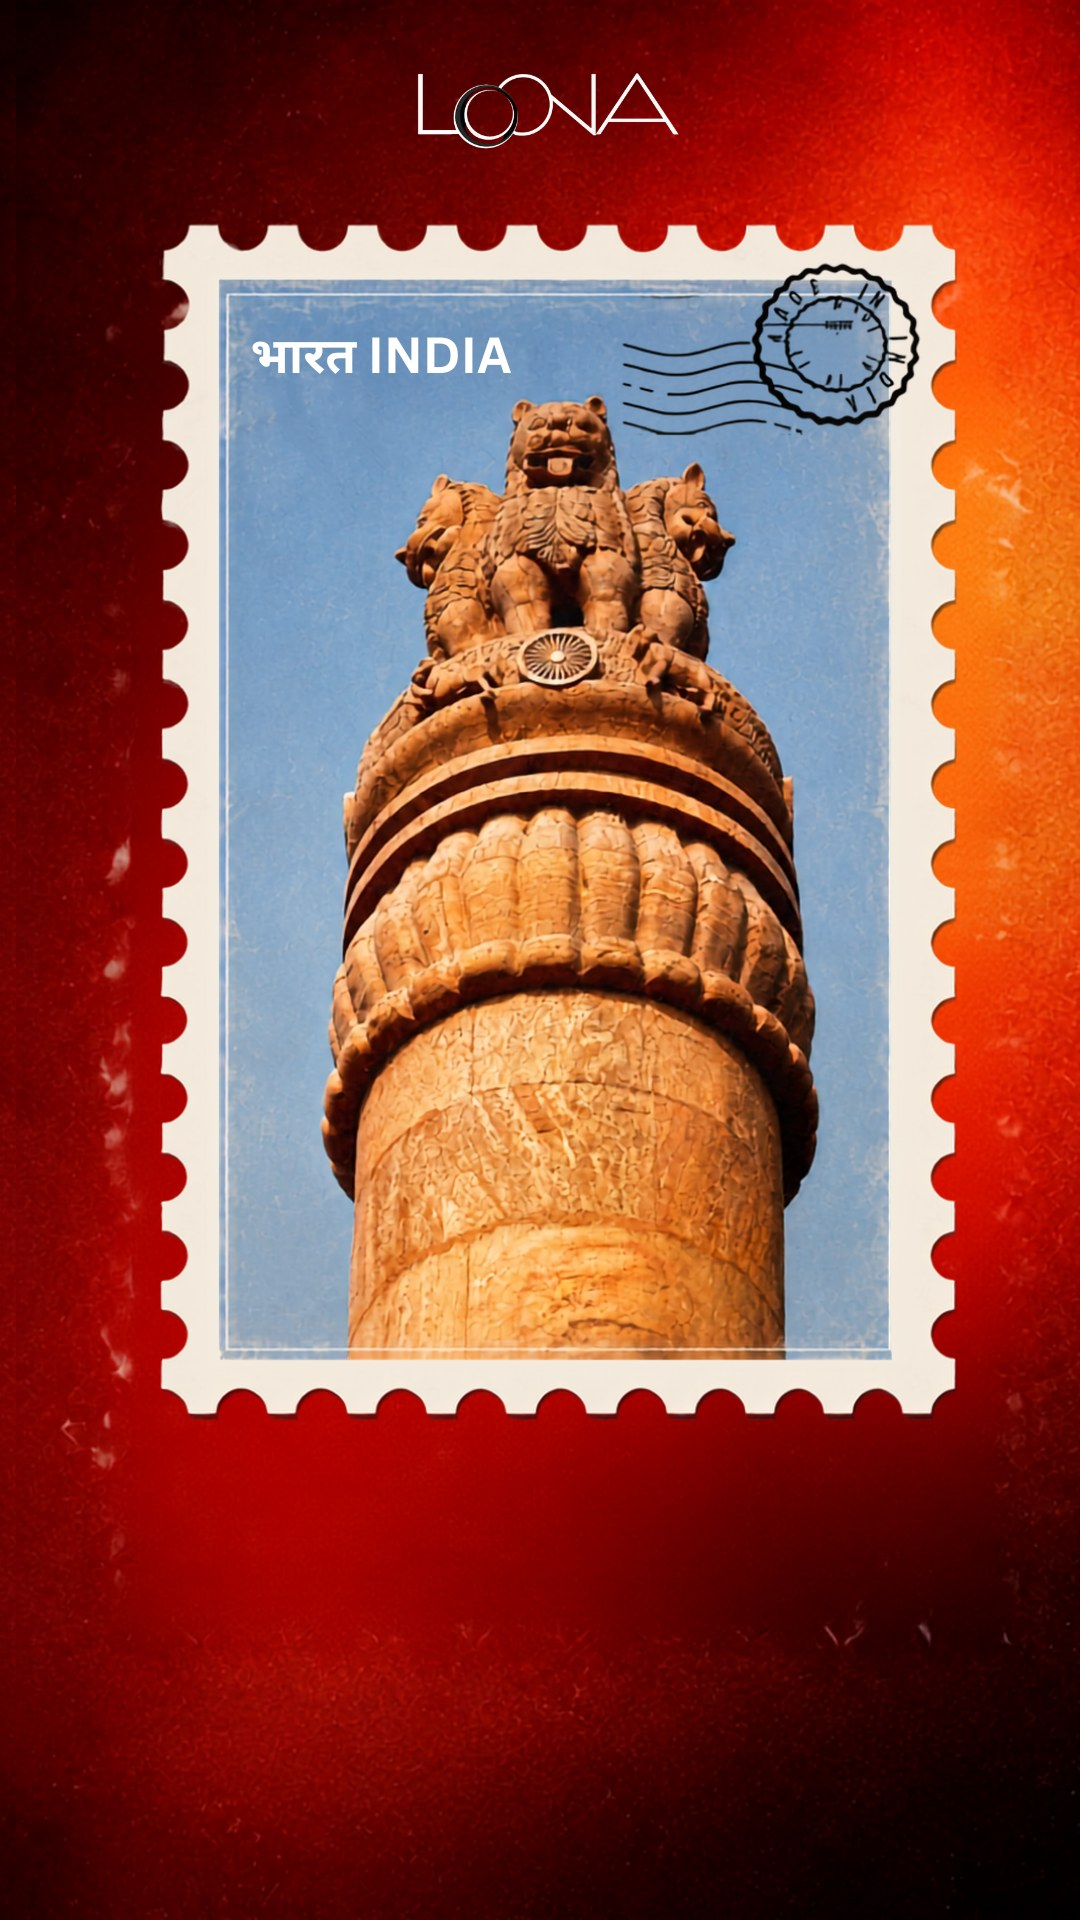
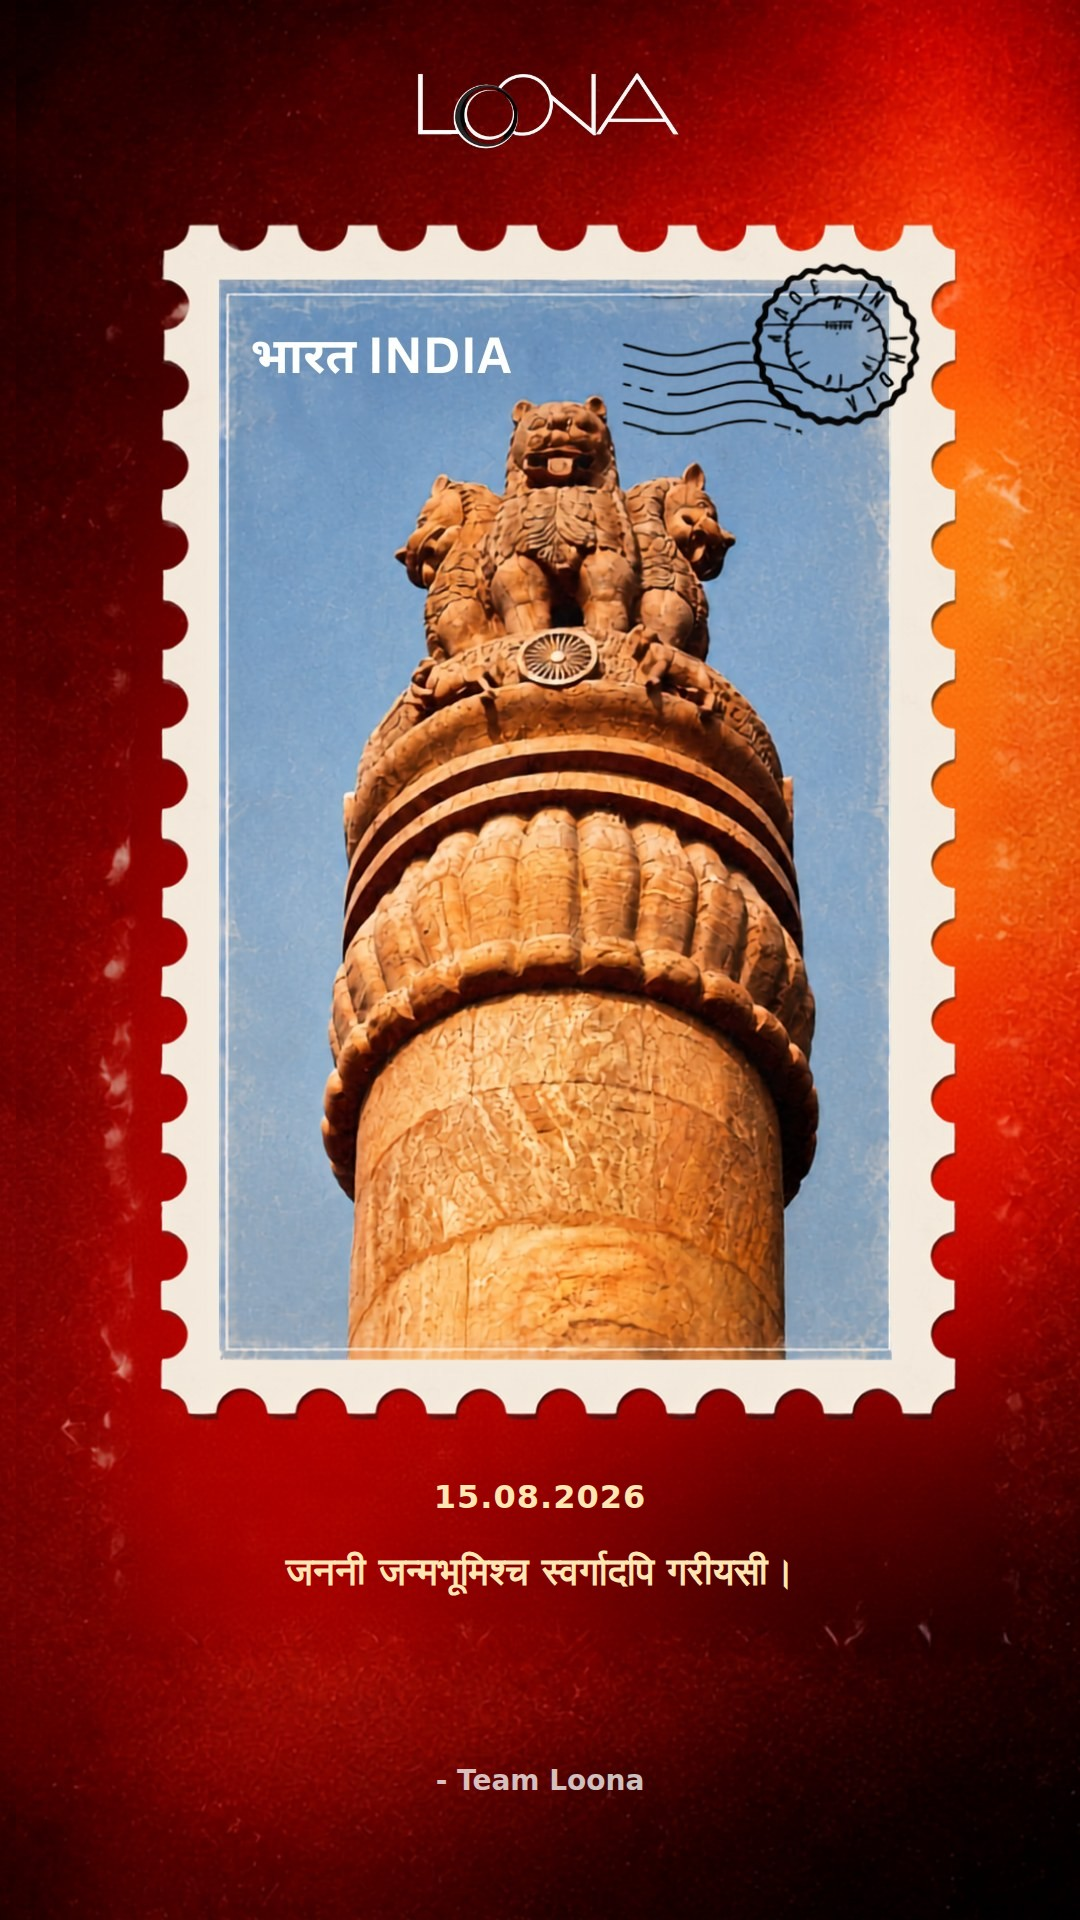
independence: fix viewport cutoff, unreachable close button, stamp text; remove share
- .ind-scene and .mic-modal-backdrop: replaced inset:0 with explicit
  top/left/right + height:100svh (100vh fallback). Plain inset:0 on a
  position:fixed element sizes against Safari's large viewport (as if
  the toolbar were always hidden), so bottom-anchored content could
  render below the actually-visible area whenever the toolbar was
  docked/expanded — confirmed on a real device where the hoist button,
  subtitle, and count line were all cut off below the visible viewport.
- Stamp modal's close button: was nested inside .mic-modal-card, whose
  entrance animation keeps an active `transform` on it even after
  settling (scale(1) translateY(0) still counts) — which makes it a
  containing block for position:fixed descendants, silently anchoring
  the close button to the card instead of the viewport. Moved it to be
  a direct sibling of the card instead, now truly pinned to the
  viewport corner, reachable regardless of the card's own height.
- Stamp image: date/shloka/signature are now baked directly into
  stamp-bg.jpg (rendered through an actual browser via
  bake-stamp-static-text.js in scratchpad, so Devanagari shapes/centers
  correctly) instead of drawn with canvas fillText() at runtime — a
  real device showed the shloka line badly mis-centered, canvas text
  metrics don't account for Devanagari conjunct/ligature shaping the
  way DOM text layout does. Only the personalized "Thank you <name>..."
[…]

Changed region(s): [[0.275, 0.75, 0.7333, 0.8438], [0.4278, 0.9062, 0.6111, 0.9375], [0.4583, 0.75, 0.4889, 0.7812]]

diff --git a/independence/index.html b/independence/index.html
@@ -46,7 +46,17 @@
      it's simplified to position:fixed;inset:0 instead of the full-bleed
      vw-math the dashboard version needs to escape its padded parent). ══════════ */
   .ind-scene {
-    position: fixed; inset: 0; overflow: hidden;
+    /* top/left/right + explicit height, not inset:0 — plain inset:0 on a
+       position:fixed element sizes against the LARGE viewport in Safari
+       (as if the toolbar were always hidden), so bottom-anchored content
+       inside it (.mic-controls, see below) could end up positioned below
+       the actually-visible area whenever the toolbar is docked/expanded,
+       cut off entirely — confirmed on a real device. 100svh ("small"
+       viewport height) is the one guaranteed to never be taller than
+       what's actually visible, toolbar or not; 100vh first as a fallback
+       for browsers that don't understand svh (unsupported values are
+       ignored, not applied, so this degrades safely). */
+    position: fixed; top: 0; left: 0; right: 0; height: 100vh; height: 100svh; overflow: hidden;
     background:
       radial-gradient(34% 22% at 6% 56%, rgba(255, 242, 216, .5) 0%, rgba(255, 150, 66, .26) 34%, transparent 60%),
       linear-gradient(178deg, #ff6d29 0%, #fb5713 16%, #db3d09 30%, #8f2605 46%, #3e0f02 64%, #150602 82%, #070301 100%);
@@ -189,7 +199,7 @@
   .mic-controls {
     position: absolute; left: 0; right: 0; bottom: 0; z-index: 6;
     display: flex; flex-direction: column; align-items: center; gap: 8px;
-    padding: 28px 20px calc(38px + env(safe-area-inset-bottom, 0px));
+    padding: 18px 20px calc(38px + env(safe-area-inset-bottom, 0px));
     text-align: center;
     background: linear-gradient(180deg, transparent 0%, rgba(7, 3, 1, .55) 40%, rgba(7, 3, 1, .9) 100%);
   }
@@ -206,13 +216,21 @@
      .mic-modal-backdrop/.mic-modal-card), just swapped out rather than
      stacked on top of it (see stamp-btn's click handler), so there's only
      ever one dimmed backdrop up at a time. */
+  /* Pinned to the viewport corner (not the card) — as a flex child at the
+     top of a card whose own height could exceed the viewport (see the
+     overflow-y:auto safety net on .mic-modal-backdrop above), this button
+     could otherwise scroll off above the visible area entirely, exactly
+     like a real device caught happening. Fixed positioning means it's
+     always reachable regardless of how tall the card's content gets. */
   .mic-stamp-close {
-    align-self: flex-end; margin: -8px -8px 0 0; width: 30px; height: 30px;
-    border-radius: 50%; background: rgba(255, 255, 255, .1); color: #fff;
-    border: 1px solid rgba(255, 255, 255, .2); font-size: 16px; line-height: 1;
+    position: fixed; z-index: 31;
+    top: calc(14px + env(safe-area-inset-top, 0px)); right: calc(14px + env(safe-area-inset-right, 0px));
+    width: 34px; height: 34px;
+    border-radius: 50%; background: rgba(20, 10, 5, .75); color: #fff;
+    border: 1px solid rgba(255, 255, 255, .25); font-size: 16px; line-height: 1;
     display: flex; align-items: center; justify-content: center; cursor: pointer;
   }
-  .mic-stamp-img { width: 100%; max-height: 58vh; object-fit: contain; border-radius: 12px; }
+  .mic-stamp-img { width: 100%; max-height: 52vh; object-fit: contain; border-radius: 12px; }
   .mic-name-row { display: flex; gap: 6px; align-items: center; margin-top: 4px; }
   .mic-name-row input {
     background: rgba(255, 255, 255, .1); border: 1px solid rgba(255, 255, 255, .25); border-radius: 999px;
@@ -226,10 +244,13 @@
      itself appears (see the setTimeout in startClimb()), not immediately
      and not inline in the bottom panel. */
   .mic-modal-backdrop {
-    position: fixed; inset: 0; z-index: 30;
+    /* Same top/left/right + explicit height fix as .ind-scene above —
+       plain inset:0 could size this against Safari's large viewport. */
+    position: fixed; top: 0; left: 0; right: 0; height: 100vh; height: 100svh; z-index: 30;
     background: rgba(5, 2, 1, .6);
     display: flex; align-items: center; justify-content: center;
     padding: 20px calc(20px + env(safe-area-inset-right, 0px)) calc(20px + env(safe-area-inset-bottom, 0px)) calc(20px + env(safe-area-inset-left, 0px));
+    overflow-y: auto; /* safety net if a card is ever taller than even the small viewport */
     animation: mic-backdrop-in .25s ease both;
   }
   @keyframes mic-backdrop-in { from { opacity: 0; } to { opacity: 1; } }
@@ -466,11 +487,9 @@
         <input id="name-input" type="text" maxlength="24" placeholder="Your name (optional)" autocomplete="off">
       </div>
       <div class="mic-share-actions">
-        <button class="btn btn-primary" id="share-btn">Share your hoist</button>
         <button class="btn btn-primary" id="stamp-btn">Get your stamp</button>
         <button class="btn btn-secondary" id="again-btn">Hoist again</button>
       </div>
-      <div class="mic-share-status" id="share-status"></div>
     </div>
   </div>
 
@@ -480,15 +499,23 @@
        compositing today's date/shloka/the name typed into name-input onto
        assets/independence-day/stamp-bg.jpg (see buildStampImage()). -->
   <div class="mic-modal-backdrop" id="stamp-modal" style="display:none">
+    <!-- Deliberately NOT inside .mic-modal-card: that card gets an active
+         `transform` from its own entrance animation (mic-card-in), and
+         ANY transform — even one that settles on scale(1)/translateY(0) —
+         makes an element a containing block for position:fixed
+         descendants, which would silently break this button's fixed
+         positioning (it'd anchor to the card, not the real viewport) and
+         reintroduce the exact "can't reach the close button" bug this is
+         fixing. Kept as a sibling instead, inside the backdrop (which
+         only ever animates opacity — safe). -->
+    <button class="mic-stamp-close" id="stamp-close-btn" aria-label="Back">✕</button>
     <div class="mic-modal-card">
-      <button class="mic-stamp-close" id="stamp-close-btn" aria-label="Back">✕</button>
       <img class="mic-stamp-img" id="stamp-img" alt="Your personalized Independence Day stamp">
       <button class="btn btn-primary" id="save-stamp-btn">Save</button>
       <div class="mic-share-status" id="stamp-status"></div>
     </div>
   </div>
 
-  <canvas id="story-canvas" width="1080" height="1920" style="display:none" aria-hidden="true"></canvas>
   <canvas id="stamp-canvas" width="1080" height="1920" style="display:none" aria-hidden="true"></canvas>
 
 <script>
@@ -692,16 +719,6 @@ if (referrerSlug) {
   el.style.display = '';
   el.textContent = unslug(referrerSlug) + ' hoisted the flag 🇮🇳 Now it\'s your turn.';
 }
-
-function slugify(s) {
-  return s.toLowerCase().trim().replace(/[^a-z0-9]+/g, '-').replace(/^-+|-+$/g, '').slice(0, 24);
-}
-function randomSlug() {
-  const adjectives = ['bold', 'swift', 'proud', 'free', 'brave', 'bright', 'united', 'fearless'];
-  const a = adjectives[Math.floor(Math.random() * adjectives.length)];
-  return a + '-loonatic-' + Math.floor(1000 + Math.random() * 9000);
-}
-let mySlug = randomSlug();
 
 const HOIST_ENDPOINT = '/.netlify/functions/independence-hoist';
 
@@ -973,7 +990,6 @@ function startClimb() {
       document.getElementById('phase-landing').style.display = 'none';
       document.getElementById('phase-celebrate').style.display = '';
       hoistPromise.then((d) => renderMap(d || lastHoistResult));
-      prepareStoryAssets();
       // Map shows clean first, no buttons — the share/hoist-again popup
       // appears 6s later rather than being there immediately.
       setTimeout(() => {
@@ -1009,111 +1025,11 @@ document.getElementById('again-btn').addEventListener('click', () => {
   setTimeout(() => { hoistBtn.disabled = false; startClimb(); }, dropDuration * 1000 + 60);
 });
 
-// ── Name -> personalized referral link, and the shareable Story image ──
 const nameInput = document.getElementById('name-input');
-nameInput.addEventListener('input', () => {
-  mySlug = slugify(nameInput.value) || randomSlug();
-  prepareStoryAssets();
-});
-
-function shareUrl() {
-  return location.origin + '/independence/?from=' + encodeURIComponent(mySlug);
-}
-
-let latestStoryBlob = null;
-function prepareStoryAssets() {
-  buildStoryImage(shareUrl(), blob => { latestStoryBlob = blob; });
-}
-
-// Draws a 1080x1920 (Story-ratio) branded card: "I HOISTED THE FLAG 🇮🇳 /
-// Your turn. / <url>" plus a QR code, instead of sharing a generic "Happy
-// Independence Day" image — the whole point (per the brief) is that what
-// gets shared is itself an invitation with the link baked in, not just a
-// nice graphic, so the chain can actually continue when someone sees it.
-function buildStoryImage(url, callback) {
-  const canvas = document.getElementById('story-canvas');
-  const ctx = canvas.getContext('2d');
-  const W = canvas.width, H = canvas.height;
-
-  const grad = ctx.createLinearGradient(0, 0, 0, H);
-  grad.addColorStop(0, '#ff7a30');
-  grad.addColorStop(.32, '#fb5713');
-  grad.addColorStop(.6, '#8f2605');
-  grad.addColorStop(1, '#150602');
-  ctx.fillStyle = grad;
-  ctx.fillRect(0, 0, W, H);
-
-  const stripeY = 150, stripeH = 22;
-  ctx.fillStyle = '#FF9933'; ctx.fillRect(0, stripeY, W, stripeH);
-  ctx.fillStyle = '#FFFFFF'; ctx.fillRect(0, stripeY + stripeH, W, stripeH);
-  ctx.fillStyle = '#138808'; ctx.fillRect(0, stripeY + stripeH * 2, W, stripeH);
-
-  ctx.textAlign = 'center';
-  ctx.fillStyle = '#fff';
-  ctx.font = '800 92px system-ui, -apple-system, sans-serif';
-  ctx.fillText('I HOISTED', W / 2, 560);
-  ctx.fillText('THE FLAG 🇮🇳', W / 2, 668);
-
-  ctx.font = '600 48px system-ui, -apple-system, sans-serif';
-  ctx.fillStyle = 'rgba(255,255,255,.9)';
-  ctx.fillText('Your turn.', W / 2, 760);
-
-  ctx.font = '600 30px system-ui, -apple-system, sans-serif';
-  ctx.fillStyle = '#FFD54A';
-  ctx.fillText(url.replace(/^https?:\/\//, ''), W / 2, 1770);
-
-  const finish = () => canvas.toBlob(blob => callback(blob), 'image/png');
-
-  const qr = new Image();
-  qr.crossOrigin = 'anonymous';
-  qr.onload = () => {
-    const qs = 280;
-    const qx = W / 2 - qs / 2, qy = 1400;
-    ctx.fillStyle = '#fff';
-    ctx.fillRect(qx - 18, qy - 18, qs + 36, qs + 36);
-    ctx.drawImage(qr, qx, qy, qs, qs);
-    finish();
-  };
-  qr.onerror = finish; // still produce a shareable image even if the QR API is unreachable
-  qr.src = 'https://api.qrserver.com/v1/create-qr-code/?size=280x280&data=' + encodeURIComponent(url);
-}
-
-document.getElementById('share-btn').addEventListener('click', async () => {
-  sendNameIfNeeded();
-  const status = document.getElementById('share-status');
-  const url = shareUrl();
-  const finish = async (blob) => {
-    let shared = false;
-    if (navigator.canShare && blob) {
-      try {
-        const file = new File([blob], 'loona-independence-hoist.png', { type: 'image/png' });
-        if (navigator.canShare({ files: [file] })) {
-          try { await navigator.clipboard.writeText(url); } catch (e) {}
-          await navigator.share({ files: [file], title: 'I hoisted the flag 🇮🇳', text: 'Your turn: ' + url });
-          shared = true;
-        }
-      } catch (e) { /* user cancelled the native share sheet, or share failed — fall through */ }
-    }
-    if (!shared) {
-      if (blob) {
-        const a = document.createElement('a');
-        a.href = URL.createObjectURL(blob);
-        a.download = 'loona-independence-hoist.png';
-        document.body.appendChild(a); a.click(); a.remove();
-      }
-      try { await navigator.clipboard.writeText(url); } catch (e) {}
-    }
-    status.textContent = 'Your Story is ready. Add a Link sticker and paste the link we copied for you.';
-  };
-  if (latestStoryBlob) finish(latestStoryBlob);
-  else buildStoryImage(url, finish);
-});
 
 // ── Personalized commemorative stamp ──
 // Composites today's date, the shloka, and a thank-you (using whatever
-// name is in name-input, same field the share flow already uses) onto
-// the plain stamp-bg.jpg artwork — same on-canvas approach as
-// buildStoryImage above, just a different background/layout.
+// name is in name-input) onto the plain stamp-bg.jpg artwork.
 const stampBg = new Image();
 let stampBgReady = false;
 stampBg.onload = () => { stampBgReady = true; };
@@ -1148,20 +1064,21 @@ function buildStampImage(name, callback) {
 
   const draw = () => {
     ctx.clearRect(0, 0, W, H);
+    // The date, shloka, and "- Team Loona" signature are now baked into
+    // stamp-bg.jpg itself (rendered through an actual browser so the
+    // Devanagari shapes/centers correctly) rather than drawn here — a
+    // real device caught canvas fillText() badly mis-centering that line
+    // specifically (iOS Safari's canvas text metrics don't account for
+    // Devanagari's conjunct/ligature shaping the way its own DOM text
+    // layout does, so ctx.measureText()-based centering was wrong even
+    // though the exact same string renders perfectly as plain HTML
+    // elsewhere on this page). Only the name — plain ASCII, no shaping
+    // risk — still needs to be dynamic, so that's all that's drawn here,
+    // into the gap already reserved for it between the baked shloka and
+    // signature (see bake-stamp-static-text.js in scratchpad for how
+    // stamp-bg.jpg was built, if it ever needs regenerating).
     ctx.drawImage(stampBg, 0, 0, W, H);
     ctx.textAlign = 'center';
-
-    // The artwork's own stamp graphic ends around y=1400 — everything
-    // below that is the plain background gradient, free for this text.
-    ctx.font = '700 32px system-ui, -apple-system, sans-serif';
-    ctx.fillStyle = '#ffe6b3';
-    ctx.letterSpacing = '1px';
-    ctx.fillText('15.08.2026', W / 2, 1500);
-    ctx.letterSpacing = '0px';
-
-    ctx.font = '600 38px "Noto Sans Devanagari", Inter, system-ui, -apple-system, sans-serif';
-    ctx.fillStyle = '#ffe6b3';
-    ctx.fillText('जननी जन्मभूमिश्च स्वर्गादपि गरीयसी।', W / 2, 1572);
 
     const thanks = name
       ? 'Thank you ' + name + ' for raising the flag today'
@@ -1171,10 +1088,6 @@ function buildStampImage(name, callback) {
     const lines = wrapText(ctx, thanks, W - 160);
     let y = 1660;
     lines.forEach(l => { ctx.fillText(l, W / 2, y); y += 46; });
-
-    ctx.font = '600 28px system-ui, -apple-system, sans-serif';
-    ctx.fillStyle = 'rgba(255,255,255,.75)';
-    ctx.fillText('- Team Loona', W / 2, y + 30);
 
     canvas.toBlob(blob => callback(blob), 'image/jpeg', 0.92);
   };
